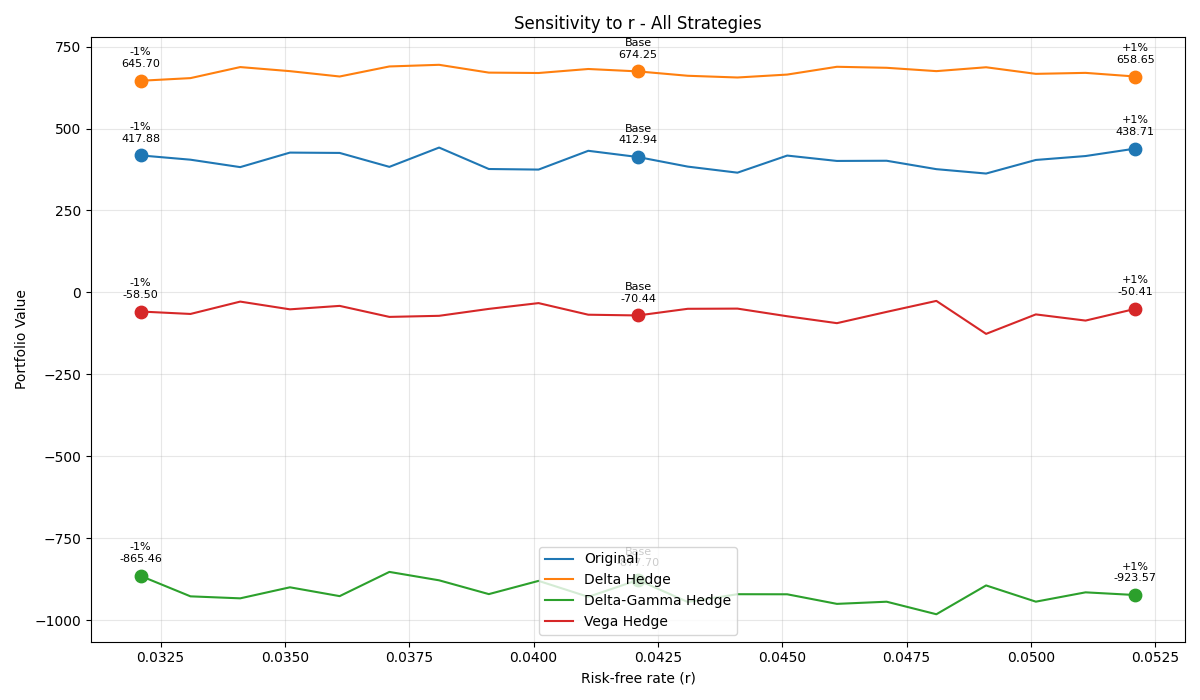
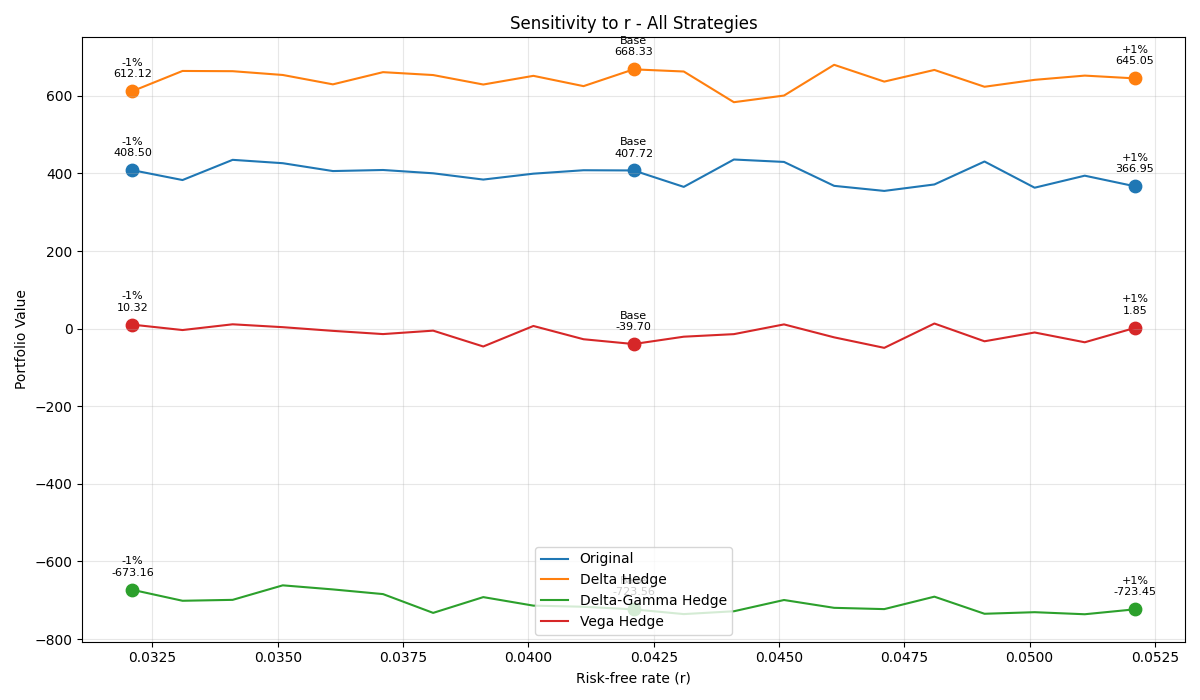
test

diff --git a/option_pricing/monte_carlo/mc_portfolio_analysis.py b/option_pricing/monte_carlo/mc_portfolio_analysis.py
@@ -2,7 +2,6 @@ import sys
 import os
 sys.path.append(os.path.abspath(os.path.join(os.path.dirname(__file__), '../..')))
 import numpy as np
-np.random.seed(42)
 from scipy.optimize import brentq
 from scipy.stats import norm
 import matplotlib.pyplot as plt
@@ -24,6 +23,8 @@ from option_pricing.binomial_model.american_options.american_binomial import get
 #   'qty': cantidad (positiva: long, negativa: short),
 #   'market_price': precio de mercado (para IV)
 # }
+
+np.random.seed(42)  # Set seed for reproducibility
 
 def black_scholes_call_price(S, K, T, r, sigma):
     d1 = (np.log(S / K) + (r + 0.5 * sigma ** 2) * T) / (sigma * np.sqrt(T))
@@ -80,7 +81,6 @@ def price_option_mc(opt, n_sim=10000, n_steps=50):
     return price
 
 def option_greeks_mc(opt, n_sim=10000, n_steps=50):
-    np.random.seed(42)  # Set seed for reproducibility
     iv = implied_volatility_option(opt['market_price'], opt['S'], opt['K'], opt['T'], opt['r'], opt['type'])
     if iv is None:
         ticker = opt.get('ticker', None)
@@ -103,7 +103,6 @@ def portfolio_greeks_mc(portfolio, n_sim=10000, n_steps=50):
     return total
 
 def simulate_portfolio_mc_pricing(portfolio, n_sims=1000, n_steps=50, horizon=None, vol_shock_sigma=0.1, rho=-0.5):
-    np.random.seed(42)  # Set seed for reproducibility
     base_val = sum(price_option_mc(opt, n_sim=1000, n_steps=n_steps) * opt['qty'] for opt in portfolio)
     pnl = []
     shocks_dict = {}
@@ -165,7 +164,6 @@ def run_sensitivity_analysis_mc(portfolio, N, n_sim_sens, vis_dir, horizon):
         }]),
         # Gamma y Vega hedge requieren lógica previa, pero para automatización rápida usamos las carteras ya generadas en la llamada principal
     ]
-    # Puedes agregar Delta-Gamma y Vega Hedge si tienes la lógica en la app
     # Calculate initial portfolio value
     initial_portfolio_value = sum(price_option_mc(opt, n_sim=n_sim_greeks, n_steps=N) * opt['qty'] for opt in portfolio)
 
@@ -315,7 +313,6 @@ def run_sensitivity_analysis_mc(portfolio, N, n_sim_sens, vis_dir, horizon):
     plt.close()
 
 if __name__ == "__main__":
-    np.random.seed(42)  # Set seed for reproducibility
     portfolio = [
         {'type': 'call', 'style': 'european', 'S': 5912.17, 'K': 5915, 'T': 0.0849, 'r': 0.0421, 'qty': -10, 'market_price': 111.93},
         {'type': 'put',  'style': 'american', 'S': 5912.17, 'K': 5910, 'T': 0.0849, 'r': 0.0421, 'qty': -5,  'market_price': 106.89},
